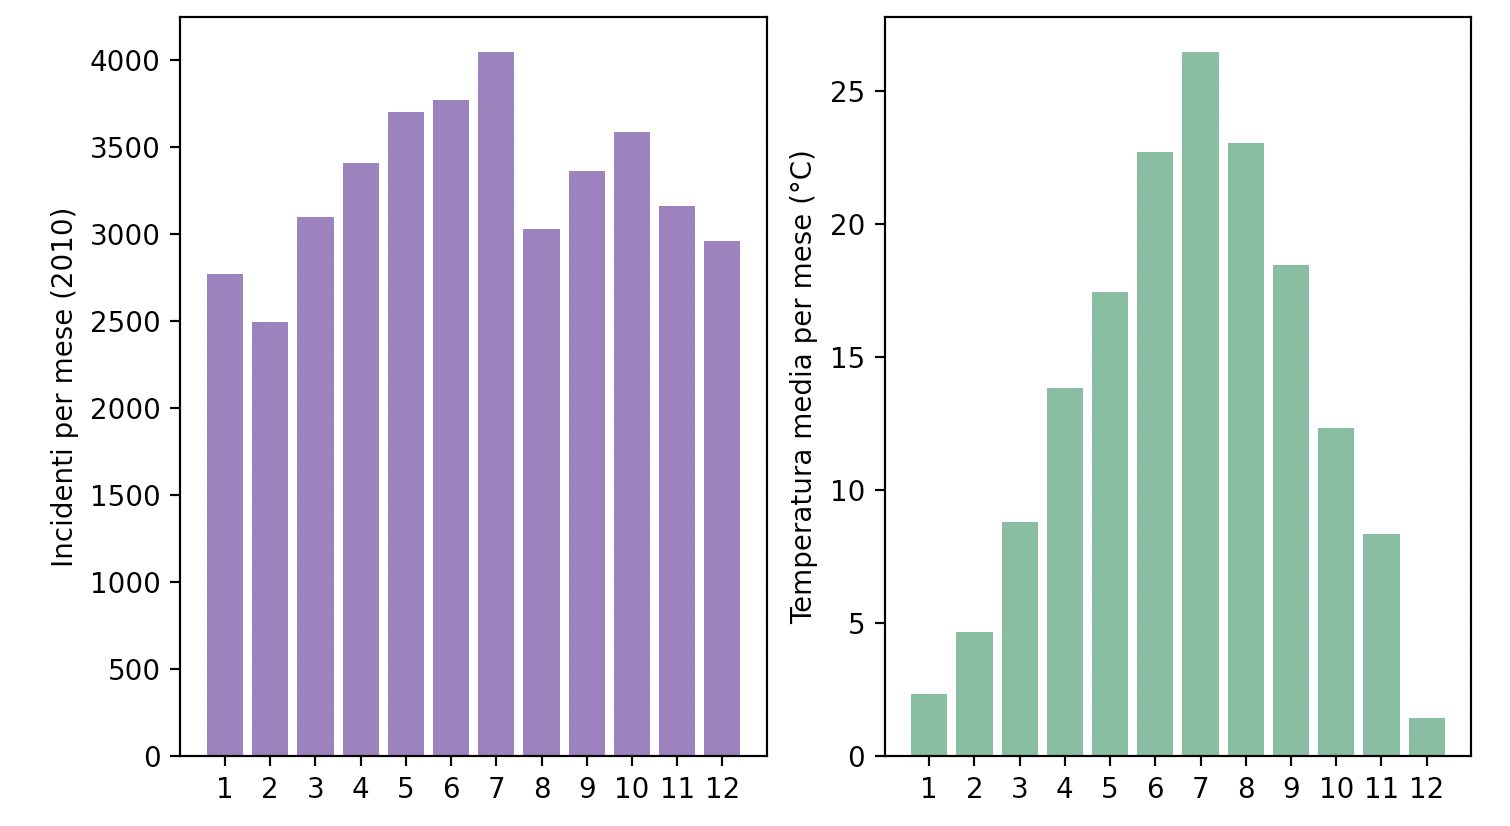
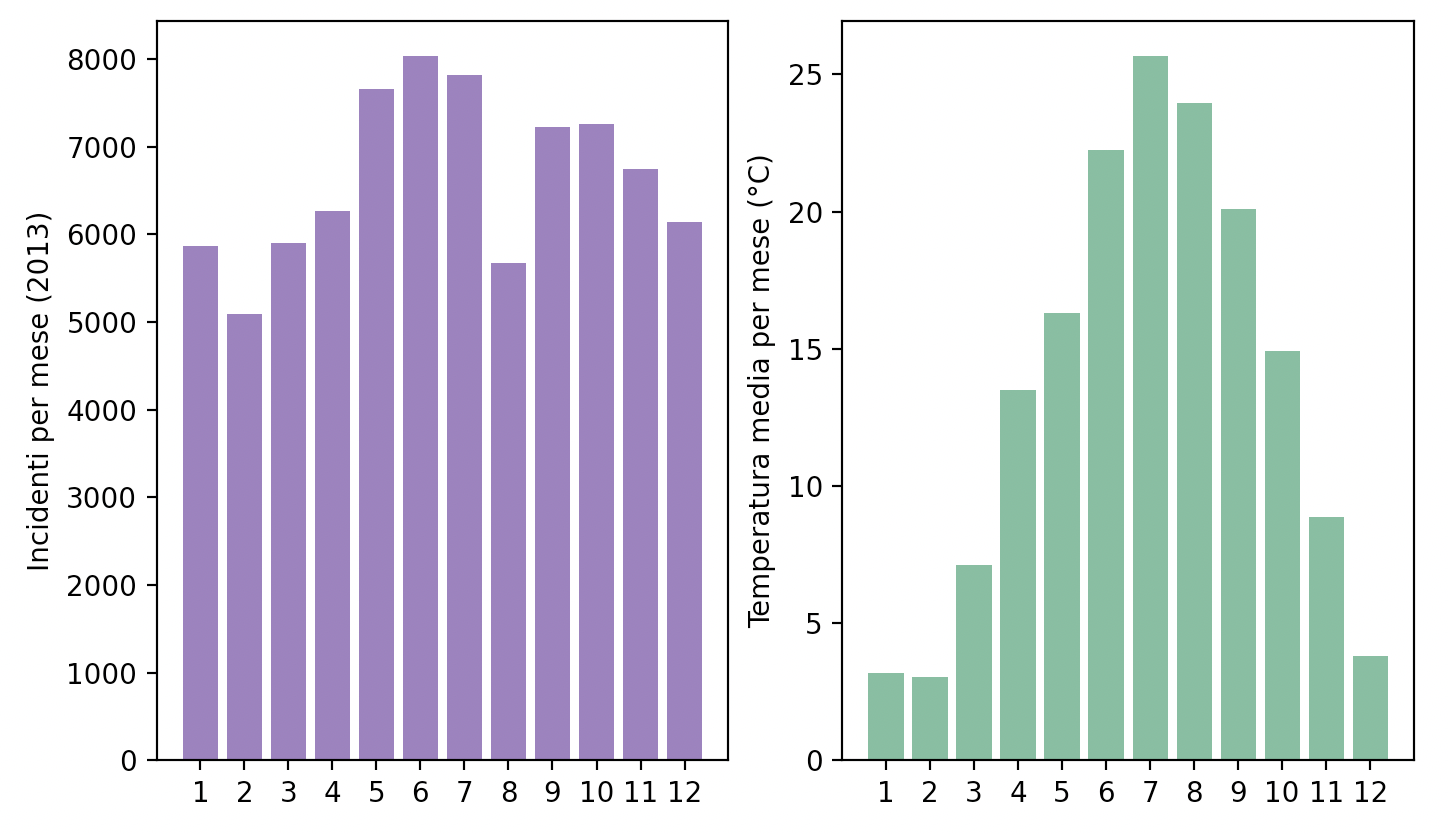
realizzato calcolo correlazione per ogni anno disponibile

diff --git a/src/meteo/milano/meteo_milano.py b/src/meteo/milano/meteo_milano.py
@@ -6,41 +6,73 @@ sys.path.append("src")
 
 import meteo.meteo_generale_utils as mgu
 
-incidenti = pd.read_csv("dataset/incidenti/incidenti_2010.txt", sep="\t")
+incidenti = pd.read_csv("dataset/incidenti/incidenti_2013.txt", sep="\t")
 
 inc = pd.Series()
 for m in incidenti['mese'].unique(): 
     inc = inc.append(pd.Series(len(incidenti[incidenti['mese'] == m]), index=[m]))
 
 meteo = pd.read_csv("dataset/meteo/meteo_milano_generale_2008_2019.csv")
-meteo_2010 = mgu.get_weather_by_year(meteo, 2010)
+meteo_2010 = mgu.get_weather_by_year(meteo, 2013)
 
 meteo_per_mese = pd.Series() 
 for month in range(1,13): 
-    media = mgu.get_weather_by_month(meteo_2010, month)['Dew_Point'].mean()
+    media = mgu.get_weather_by_month(meteo_2010, month)['Humidity'].mean()
     meteo_per_mese = meteo_per_mese.append(pd.Series(media, index=[month]))
 
 
 # inc = inc / inc.sum()
 # meteo_per_mese = meteo_per_mese / meteo_per_mese.sum()
-print(inc.corr(meteo_per_mese))
-# Temp - Inc = 0.76
-# WindSpeed - Inc = 0.64
-# Humidity - Inc = -0.60
-# Temp - Inc = 0.76
 
 inc = inc.sort_index()
 meteo_per_mese = meteo_per_mese.sort_index()
 
-ax = plt.subplot(121)
-ax.bar(inc.index, inc, color='#8f6ab5')
-plt.ylabel("Incidenti per mese (2010)")
-plt.xticks(range(1,13))
-# ax.spines['right'].set_visible(False)
-# ax.spines['top'].set_visible(False)
+# ax = plt.subplot(121)
+# ax.bar(inc.index, inc, color='#8f6ab5')
+# plt.ylabel("Incidenti per mese (2013)")
+# plt.xticks(range(1,13))
 
-plt.subplot(122)
-plt.ylabel("Temperatura media per mese (°C)")
-plt.bar(meteo_per_mese.index, meteo_per_mese, color='#6ab58f')
-plt.xticks(range(1,13))
-plt.show()
+# plt.subplot(122)
+# plt.ylabel("Temperatura media per mese (°C)")
+# plt.bar(meteo_per_mese.index, meteo_per_mese, color='#6ab58f')
+# plt.xticks(range(1,13))
+# plt.show()
+
+for year in [2010, 2011, 2012, 2013]: 
+    meteo_2010 = mgu.get_weather_by_year(meteo, 2013)
+
+    meteo_per_mese = pd.Series() 
+    for month in range(1,13): 
+        media = mgu.get_weather_by_month(meteo_2010, month)['Humidity'].mean()
+        meteo_per_mese = meteo_per_mese.append(pd.Series(media, index=[month]))
+
+    incidenti = pd.read_csv("dataset/incidenti/incidenti_" + str(year) +".txt", sep="\t")
+
+    inc = pd.Series()
+    for m in incidenti['mese'].unique(): 
+        inc = inc.append(pd.Series(len(incidenti[incidenti['mese'] == m]), index=[m]))
+
+
+    # print(meteo_per_mese)
+    # print(inc)
+
+    print(str(year) + ": " + str(meteo_per_mese.corr(inc)))
+
+
+# TEMP
+# 2010: 0.768
+# 2011: 0.900
+# 2012: 0.732
+# 2013: 0.658
+
+# Wind Speed
+# 2010: 0.585
+# 2011: 0.626
+# 2012: 0.501
+# 2013: 0.465
+
+# Humidity
+# 2010: -0.626
+# 2011: -0.730
+# 2012: -0.609
+# 2013: -0.516

diff --git a/tesi/Tesi.tex b/tesi/Tesi.tex
@@ -1816,7 +1816,18 @@ per non parlare del fatto che entrambe le strade passano attraverso un alto nume
 
 %%%%%%%%%%%%%%%%%%%%%%%%%%%%%%%%%%%%%%%%%%%%%%%%%%%%%%
 %\clearpage
+\todo{lelepado: Ho poche cose qui}
 \chapter{Dati su Meteo}
+
+\section{Meteo a Milano}
+
+\subsection{Correlazione tra fattori atmosferici e incidentalità}
+
+\begin{figure}
+    \includegraphics[width=\linewidth]{../src/meteo/milano/temp_incidenti.png}
+    \caption{Incidenti e temperature medi per mese nel 2010}
+    \label{fig:autostrade-anno-agosto}
+\end{figure}
 
 \bibliographystyle{plain}
 \bibliography{Biblio}
